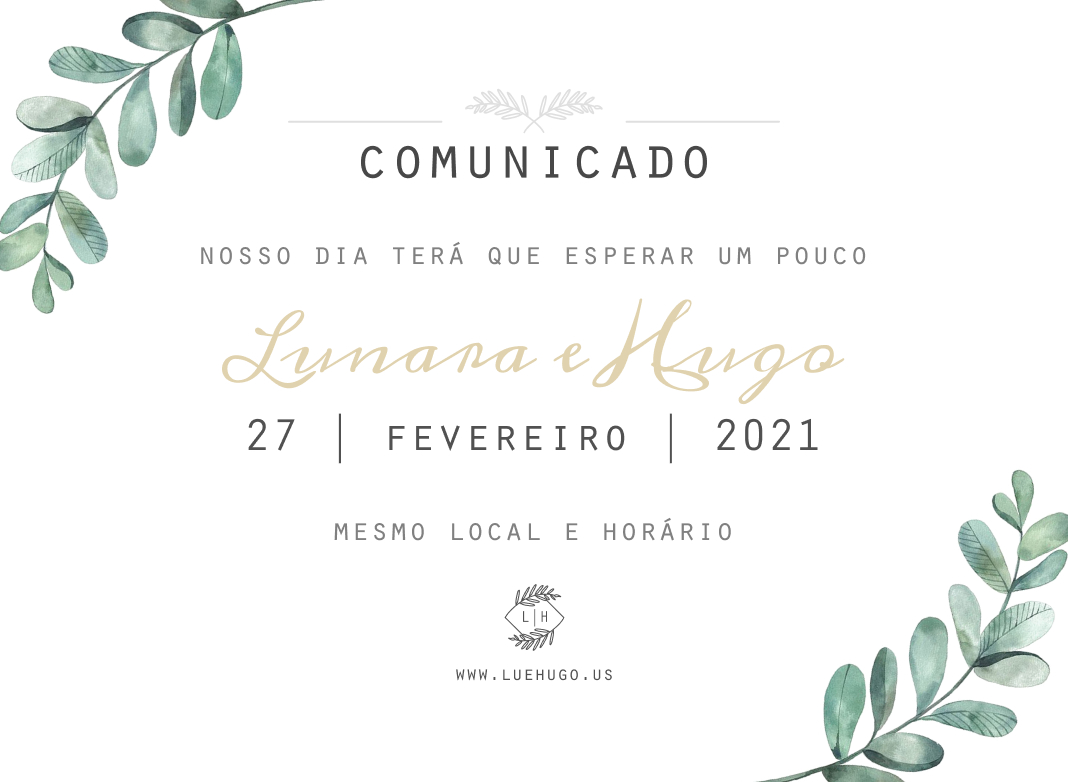
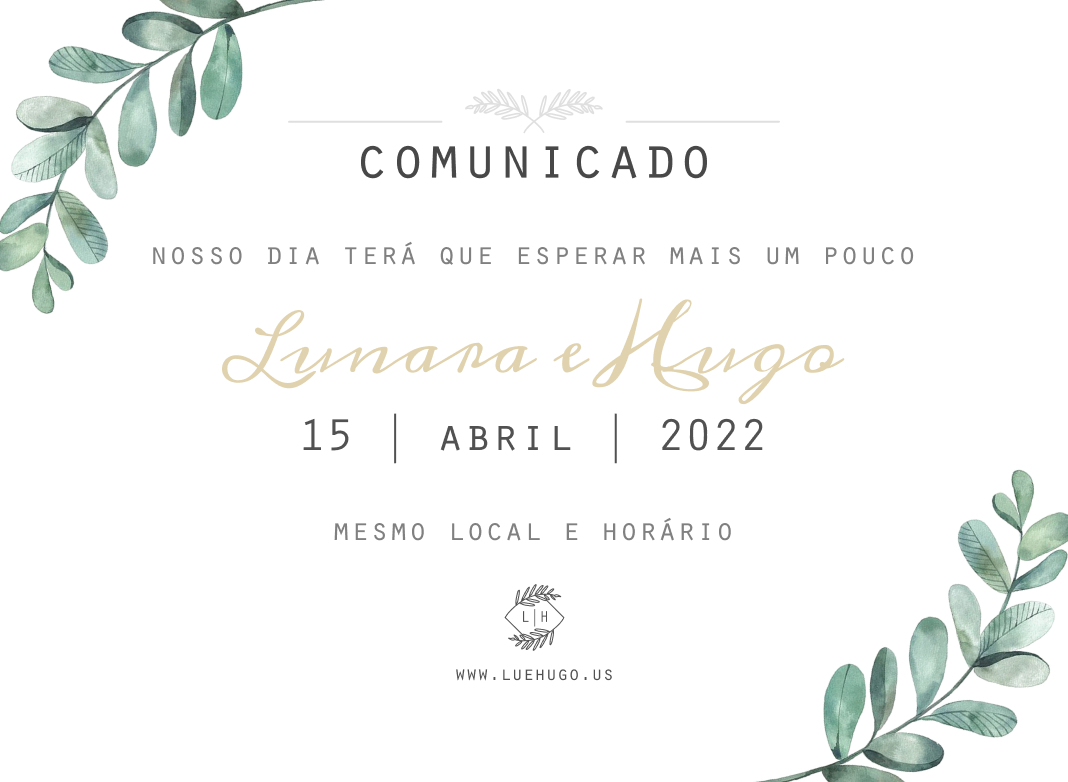
Change wedding date to 15/04/2022

diff --git a/src/components/layout.js b/src/components/layout.js
@@ -25,10 +25,10 @@ const messages = { en, pt };
 
 if (typeof window !== "undefined") {
   // eslint-disable-next-line global-require
-  require("smooth-scroll")('a[href*="#"]');
+  require("smooth-scroll")("a[href*=\"#\"]");
 }
 
-const Layout = (props) => {
+const Layout = props => {
   const { backgroundColor, children, location } = props;
   const url = location.pathname;
   const { langs, defaultLangKey } = props.data.site.siteMetadata.languages;
@@ -37,7 +37,7 @@ const Layout = (props) => {
   const homeLink = `/${langKey !== "pt" ? langKey : ""}`;
   const isHome = homeLink.replace(/\/$/, "") === url.replace(/\/$/, "");
   const langsMenu = getLangs(langs, langKey, getUrlForLang(homeLink, url)).map(
-    (item) => ({
+    item => ({
       ...item,
       link: item.link.replace(`/${defaultLangKey}/`, "/"),
     })
@@ -55,7 +55,7 @@ const Layout = (props) => {
       <IntlProvider locale={langKey} messages={messages[langKey]}>
         <BodyContainer>
           <FormattedMessage id="title">
-            {(txt) => (
+            {txt => (
               <Helmet defaultTitle={txt} titleTemplate={`%s | ${txt}`}>
                 <meta name="author" content={author.name} />
                 <meta name="description" content={description} />
@@ -94,12 +94,12 @@ const Layout = (props) => {
 };
 
 const bodyStyle = css`
-  color: ${(props) => props.theme.color};
-  font-family: ${(props) => props.theme.fonts.Poppins};
+  color: ${props => props.theme.color};
+  font-family: ${props => props.theme.fonts.Poppins};
   font-feature-settings: "calt" 1, "clig" 1, "dlig" 1, "kern" 1, "liga" 1,
     "salt" 1;
   font-weight: 300;
-  line-height: ${(props) => props.theme.lineHeight};
+  line-height: ${props => props.theme.lineHeight};
 `;
 
 const GlobalStyle = createGlobalStyle`
@@ -107,63 +107,63 @@ const GlobalStyle = createGlobalStyle`
     ${bodyStyle}
   }
   a {
-    color: ${(props) => props.theme.a.color.light};
-    text-decoration: ${(props) => props.theme.a.textDecoration};
+    color: ${props => props.theme.a.color.light};
+    text-decoration: ${props => props.theme.a.textDecoration};
     transition: all 0.2s;
     :hover {
       transition: all 0.2s;
-      color: ${(props) => props.theme.a.hover.color};
+      color: ${props => props.theme.a.hover.color};
     }
   }
   b, strong {
     font-weight: bold;
   }
   h1, h2 {
-    font-family: ${(props) => props.theme.fonts.Allura};
+    font-family: ${props => props.theme.fonts.Allura};
   }
   h3, h4, h5, h6 {
-    font-family: ${(props) => props.theme.fonts.Poppins};
+    font-family: ${props => props.theme.fonts.Poppins};
   }
   h1{
-    margin:${(props) => props.theme.h1.margin};
-    padding:${(props) => props.theme.h1.padding};
-    font-size:${(props) => props.theme.h1.fontSize};
+    margin:${props => props.theme.h1.margin};
+    padding:${props => props.theme.h1.padding};
+    font-size:${props => props.theme.h1.fontSize};
     line-height: 1.4;
   }
   h2{
-    margin:${(props) => props.theme.h2.margin};
-    padding:${(props) => props.theme.h2.padding};
-    font-size:${(props) => props.theme.h2.fontSize};
+    margin:${props => props.theme.h2.margin};
+    padding:${props => props.theme.h2.padding};
+    font-size:${props => props.theme.h2.fontSize};
     line-height: 1.4;
   }
   h3{
-    margin:${(props) => props.theme.h3.margin};
-    padding:${(props) => props.theme.h3.padding};
-    font-size:${(props) => props.theme.h3.fontSize};
+    margin:${props => props.theme.h3.margin};
+    padding:${props => props.theme.h3.padding};
+    font-size:${props => props.theme.h3.fontSize};
     font-weight: 500;
     line-height: 1.4;
   }
   h4{
-    margin:${(props) => props.theme.h4.margin};
-    padding:${(props) => props.theme.h4.padding};
-    font-size:${(props) => props.theme.h4.fontSize};
+    margin:${props => props.theme.h4.margin};
+    padding:${props => props.theme.h4.padding};
+    font-size:${props => props.theme.h4.fontSize};
     font-weight: 500;
     line-height: 1.4;
   }
   h5{
-    margin:${(props) => props.theme.h5.margin};
-    padding:${(props) => props.theme.h5.padding};
-    font-size:${(props) => props.theme.h5.fontSize};
+    margin:${props => props.theme.h5.margin};
+    padding:${props => props.theme.h5.padding};
+    font-size:${props => props.theme.h5.fontSize};
     line-height: 1.4;
   }
   h6{
-    margin:${(props) => props.theme.h6.margin};
-    padding:${(props) => props.theme.h6.padding};
-    font-size:${(props) => props.theme.h6.fontSize};
+    margin:${props => props.theme.h6.margin};
+    padding:${props => props.theme.h6.padding};
+    font-size:${props => props.theme.h6.fontSize};
     line-height: 1.4;
   }
   figcaption {
-    font-family: ${(props) => props.theme.fonts.System};
+    font-family: ${props => props.theme.fonts.System};
     margin-top: 10px;
     text-align: center;
     font-size: 14px;
@@ -189,14 +189,14 @@ const GlobalStyle = createGlobalStyle`
 `;
 
 const Main = styled.main`
-  padding: ${(props) => props.theme.padding};
+  padding: ${props => props.theme.padding};
   flex-grow: 1;
   ${color}
 `;
 
 const BodyContainer = styled.div`
   ${bodyStyle}
-  background-color: ${(props) => props.theme.bg};
+  background-color: ${props => props.theme.bg};
   bottom: 0;
   left: 0;
   min-height: 100%;
@@ -208,7 +208,7 @@ const BodyContainer = styled.div`
   align-items: stretch;
 `;
 
-export default (props) => (
+export default props => (
   <StaticQuery
     query={graphql`
       query LayoutQuery {
@@ -237,7 +237,7 @@ export default (props) => (
         }
       }
     `}
-    render={(data) => <Layout data={data} {...props} />}
+    render={data => <Layout data={data} {...props} />}
   />
 );
 

diff --git a/src/data/messages/pt.js b/src/data/messages/pt.js
@@ -31,7 +31,7 @@ module.exports = {
   "index.rsvp.title": "RSVP",
   "index.rsvp.subtitle": "Confirme sua presença",
   "index.rsvp.description":
-    "Ter você conosco nesse dia será uma grande alegria! Por favor, confirme sua presença até dia 10 de Fevereiro de 2021.",
+    "Ter você conosco nesse dia será uma grande alegria! Por favor, confirme sua presença até dia 28 de Fevereiro de 2022.",
   "index.rsvp.action": "Confirmar presença",
   "index.gifts.title": "Presentes",
   "index.gifts.subtitle": "Agradecemos o carinho",
@@ -92,5 +92,5 @@ module.exports = {
   "gifts.soldout": "Esgotado",
   "announcement.title": "Comunicado",
   "announcement.subtitle": "Adiamento do nosso dia",
-  "announcement.body": "Queridos,<br /><br />Em virtude dos recentes desenvolvimentos do coronavírus, nós decidimos adiar nosso casamento para o dia 27 de Fevereiro de 2021, mesmo horário, mesmo local. Estamos muito preocupados com a saúde e a segurança das mais de 200 pessoas que mais amamaos nesse mundo e com quem gostaríamos de estar juntos no dia 2 de maio próximo. 😔 <br /><br />Não seria nem um pouco prudente seguirmos com essa data, e por isso optamos por adiar nosso casamento para um momento em que, segundo previsões, o vírus já tenha sido controlado e o risco de contaminação em aglomerações diminuído substancialmente. Escolhemos a nova data pensando também em todos aqueles que já possuem passagens e hotéis reservados, pois acreditamos que as companhias aéreas e hotéis serão mais flexíveis. <br /><br />Sabemos que é trabalhoso alterar todos os planos, e sentimos muitíssimo por todo o transtorno. Mas a saúde dos nossos familiares e amigos, das pessoas que convivem com cada um de vocês, assim como de toda a coletividade, deve estar em primeiro lugar. 🙏🏻 <br /><br />Estamos certos de que esse momento logo passará e pedimos para que todos se mantenham saudáveis. Estamos acompanhando de perto a situação da pandemia no Brasil e em todo o noticiário mundial. É fundamental que evitemos aglomerações nesse momento, e o foco agora deve ser evitar a proliferação acelerada do vírus. Agradecemos o carinho e a compreensão e contem conosco pro que precisarem. ❤ <br /><br />Nosso grande dia vai ter que esperar um poquinho, mas temos certeza que será especial do mesmo jeito. E pra isso, queremos a sua presença no dia 27/02/2021. <br /><br />Por favor, responda o RSVP para a nova data até o dia 10/02. <br /><br />Até breve! Lu & Hugo 👰🏼🤵🏽🧡"
+  "announcement.body": "Queridos,<br /><br />Em virtude dos recentes desenvolvimentos do coronavírus, nós decidimos adiar nosso casamento mais uma vez, agora para o dia 15 de Abril de 2022, mesmo horário, mesmo local. Estamos muito preocupados com a saúde e a segurança das mais de 200 pessoas que mais amamaos nesse mundo e com quem gostaríamos de estar juntos no nosso grande dia. 😔 <br /><br />Não seria nem um pouco prudente seguirmos com a data inicial, e por isso optamos por adiar nosso casamento para um momento em que, segundo previsões, o vírus já tenha sido controlado e o risco de contaminação em aglomerações diminuído substancialmente. Escolhemos a nova data pensando também em todos aqueles que já possuem passagens e hotéis reservados, pois acreditamos que as companhias aéreas e hotéis serão mais flexíveis. <br /><br />Sabemos que é trabalhoso alterar todos os planos, e sentimos muitíssimo por todo o transtorno. Mas a saúde dos nossos familiares e amigos, das pessoas que convivem com cada um de vocês, assim como de toda a coletividade, deve estar em primeiro lugar. 🙏🏻 <br /><br />Estamos certos de que esse momento logo passará e pedimos para que todos se mantenham saudáveis. Estamos acompanhando de perto a situação da pandemia no Brasil e em todo o noticiário mundial. É fundamental que evitemos aglomerações nesse momento, e o foco agora deve ser evitar a proliferação acelerada do vírus. Agradecemos o carinho e a compreensão e contem conosco pro que precisarem. ❤ <br /><br />Nosso grande dia vai ter que esperar um poquinho, mas temos certeza que será especial do mesmo jeito. E pra isso, queremos a sua presença no dia 15/04/2022. <br /><br />Por favor, responda o RSVP para a nova data até o dia 28/02/2022. <br /><br />Até breve! Lu & Hugo 👰🏼🤵🏽🧡"
 };

diff --git a/src/data/messages/en.js b/src/data/messages/en.js
@@ -30,7 +30,7 @@ module.exports = {
     "Our celebration and reception will be held at <b>Bosque São Pedro</b> (Address: Rua Dimas Bergo Xisto, 396 - São Pedro) in the city Juiz de Fora / Minas Gerais State in Brazil. The ceremony will be at 4 pm in a grassy area. Remember to ensure comfortable shoes.",
   "where.action": "See on map",
   "index.rsvp.description":
-    "Having you with us in our special day will be a great joy! Please confirm your presence by February 10, 2021.",
+    "Having you with us in our special day will be a great joy! Please confirm your presence by February 28th, 2022.",
   "index.rsvp.action": "Confirm presence",
   "index.gifts.title": "Gifts",
   "index.gifts.subtitle": "We appreciate your kindness",
@@ -90,5 +90,5 @@ module.exports = {
   "gifts.soldout": "Sold Out",
   "announcement.title": "Announcemento",
   "announcement.subtitle": "Postponing our day",
-  "announcement.body": "Dear,<br /><br /> Due to the recent developments in the Coronavirus pandemic, we decided to postpone our wedding to February 27th, 2012, the same time and at the same venue. We concerned about the health and safety of the more than 200 people with whom we would like to be together on May 2nd. 😔 <br /><br />It would not be cautious to go forward with this date, so we decided to postpone our wedding until when, according to forecasts, the virus has already been controlled and the risk of contamination in agglomerations has decreased substantially. We chose the new date thinking about everyone who already has flight tickets and bookings scheduled, because we believe airlines and hotels will be more flexible. <br /><br />We understand that some changes will be required, and we are deeply sorry for all the inconvenience. But the health of our beloved family and friends, the people who live with each one of you, as well as the whole community, must come first. 🙏🏻 <br /><br />We are sure that this moment will soon pass and we ask that everyone stay healthy. We are closely watching the advance of the pandemic in Brazil and across the world news. It is essential that we avoid gatherings at this time, and the focus now should be to prevent the accelerated spread of the virus. We appreciate the understanding and please count on us for everything you may need. <br /><br />Our very special day will need to wait a bit, but we are sure it will be as special as the first one. And, for that, we need you with us on 02/27/21! <br /><br />Please, don't forget to fill our new RSVP before 02/10/21. <br /><br />See you soon! Lu & Hugo 👰🏼🤵🏽🧡"
+  "announcement.body": "Dear,<br /><br /> Due to the recent developments in the Coronavirus pandemic, we decided to postpone our wedding again to April 15th, 2022, the same time and at the same venue. We are concerned about the health and safety of the more than 200 people with whom we would like to be together on May 2nd. 😔 <br /><br />It would not be cautious to go forward with this date, so we decided to postpone our wedding until when, according to forecasts, the virus has already been controlled and the risk of contamination in agglomerations has decreased substantially. We chose the new date thinking about everyone who already has flight tickets and bookings scheduled, because we believe airlines and hotels will be more flexible. <br /><br />We understand that some changes will be required, and we are deeply sorry for all the inconvenience. But the health of our beloved family and friends, the people who live with each one of you, as well as the whole community, must come first. 🙏🏻 <br /><br />We are sure that this moment will soon pass and we ask that everyone stay healthy. We are closely watching the advance of the pandemic in Brazil and across the world news. It is essential that we avoid gatherings at this time, and the focus now should be to prevent the accelerated spread of the virus. We appreciate the understanding and please count on us for everything you may need. <br /><br />Our very special day will need to wait a bit, but we are sure it will be as special as the first one. And, for that, we need you with us on 04/15/2022! <br /><br />Please, don't forget to fill our new RSVP before 02/28/2022. <br /><br />See you soon! Lu & Hugo 👰🏼🤵🏽🧡"
 };

diff --git a/src/components/pages/Index/index.js b/src/components/pages/Index/index.js
@@ -31,11 +31,11 @@ const Index = props => {
       <VideoContainer>
         <TitleContainer color="white" fontFamily={Orator} fontSize={[45, 65, 85, 105]}>
           <DateBox>
-              27
+              15
             <br />
-              02
+              04
             <br />
-              21
+              22
           </DateBox>
         </TitleContainer>
         <Video playsInline autoPlay muted loop id="myVideo">
